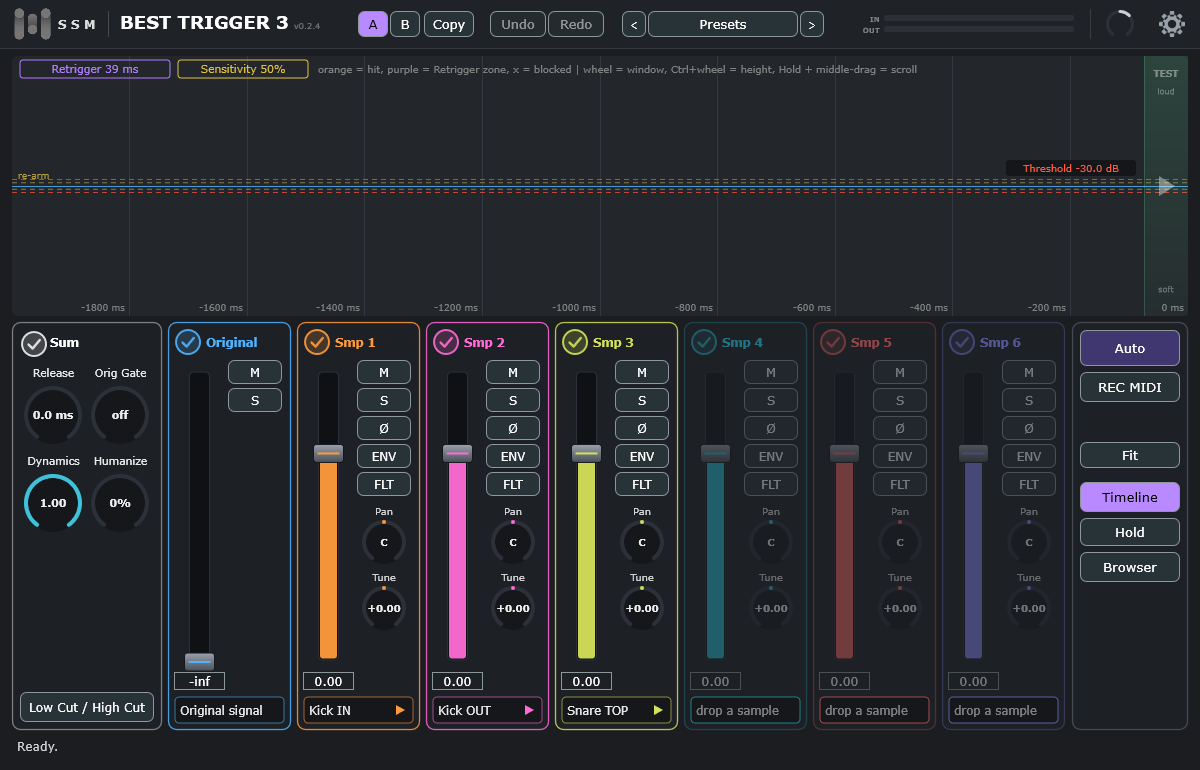
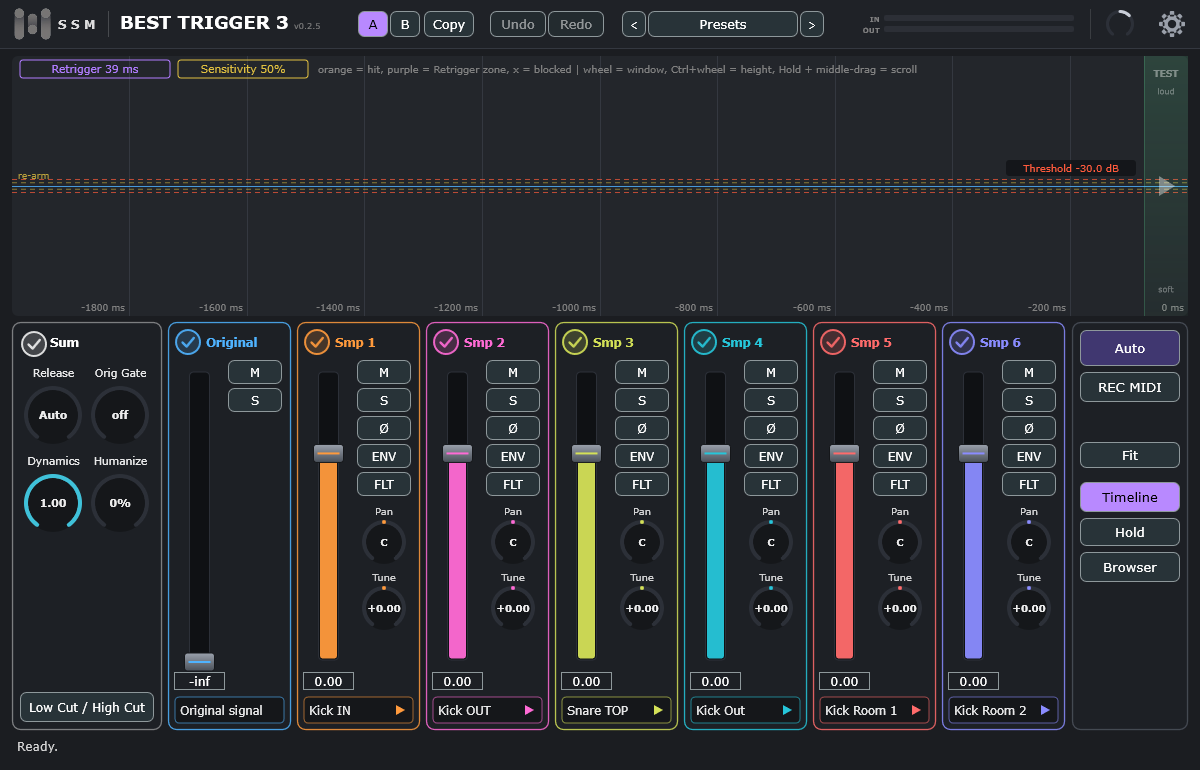
Manuals 0.2.5

diff --git a/docs/manual-ru.html b/docs/manual-ru.html
@@ -40,7 +40,7 @@
 <header class="top">
   <h1>BEST TRIGGER 3</h1>
   <div class="sub">Руководство пользователя</div>
-  <div class="ver">Версия 0.2.4 · VST3 · Windows 10/11 · macOS · <a href="manual-en.html">English version</a></div>
+  <div class="ver">Версия 0.2.5 · VST3 · Windows 10/11 · macOS · <a href="manual-en.html">English version</a></div>
 </header>
 <main>
 
@@ -114,7 +114,7 @@
   <tr><th style="width:170px">Область</th><th>Назначение</th></tr>
   <tr><td><b>Верхняя панель</b></td><td><b>A / B / Copy</b>, <b>Undo / Redo</b> (5 шагов), <b>Presets</b>, индикаторы IN/OUT, общая ручка выхода, меню-шестерёнка (красная точка — вышла новая версия).</td></tr>
   <tr><td><b>Осциллограф</b></td><td>Два вида, переключаются кнопкой справа: <b>Timeline</b> (удары во времени; вид при запуске) и <b>Phase</b> (последний удар). Зелёная полоса <b>TEST</b> справа — тестовый удар: выше щелчок — сильнее удар.</td></tr>
-  <tr><td><b>Панель Sum</b></td><td>Круглая галочка показывает сумму на осциллографе. <b>Release</b>, <b>Orig Gate</b>, <b>Dynamics</b>, <b>Humanize</b>; фильтры детектора <b>Low Cut / High Cut</b>.</td></tr>
+  <tr><td><b>Панель Sum</b></td><td>Круглая галочка показывает сумму показанных графиков. <b>Release</b>, <b>Orig Gate</b>, <b>Dynamics</b>, <b>Humanize</b>; фильтры детектора <b>Low Cut / High Cut</b>.</td></tr>
   <tr><td><b>Каналы</b></td><td><b>Original</b> и <b>Smp 1–6</b>: галочка графика, фейдер, <b>M</b>, <b>S</b>, <b>Ø</b>, <b>ENV</b>, <b>FLT</b>, <b>Pan</b>, <b>Tune</b> и плашка с именем сэмпла.</td></tr>
   <tr><td><b>Правая панель</b></td><td><b>Auto</b>, <b>REC MIDI</b>, <b>Fit</b> (Timeline), <b>Timeline / Phase</b>, <b>Hold</b>, <b>Browser</b> (полная версия).</td></tr>
 </table>
@@ -155,7 +155,7 @@
   <tr><td><b>ENV</b></td><td>Attack, Sustain и Release сэмпла.</td></tr>
   <tr><td><b>FLT</b></td><td>Low Cut и High Cut для этого сэмпла.</td></tr>
   <tr><td><b>Pan, Tune</b></td><td>Панорама L100…R100; высота ±24 полутона.</td></tr>
-  <tr><td><b>Release</b></td><td>Новый удар за это время приглушает предыдущий сэмпл того же канала.</td></tr>
+  <tr><td><b>Release</b></td><td><b>Auto</b> (по умолчанию): новый удар сам приглушает предыдущий сэмпл того же канала, на быстрых партиях быстрее. <b>off</b> оставляет хвосты; можно задать время.</td></tr>
   <tr><td><b>Orig Gate</b></td><td>После удара оригинал слышен это время, затем закрывается. 0 — выключено.</td></tr>
   <tr><td><b>Humanize</b></td><td>Небольшие случайные изменения уровня, высоты и времени на каждом ударе.</td></tr>
 </table>
@@ -248,7 +248,7 @@
 <p>Плагин использует фреймворк JUCE, TweetNaCl и метод из проекта tci2wav (MIT). Тексты лицензий: <a href="https://github.com/BardinGuitars/Best-Trigger-3/blob/main/THIRD_PARTY_NOTICES.md">THIRD_PARTY_NOTICES.md</a>. VST — торговая марка Steinberg Media Technologies GmbH.</p>
 <footer>
   <b>© 2026 SSM-Audio. Все права защищены.</b><br>
-  Best Trigger 3 · версия 0.2.4
+  Best Trigger 3 · версия 0.2.5
 </footer>
 </main>
 </body>

diff --git a/docs/manual-en.html b/docs/manual-en.html
@@ -40,7 +40,7 @@
 <header class="top">
   <h1>BEST TRIGGER 3</h1>
   <div class="sub">User Manual</div>
-  <div class="ver">Version 0.2.4 · VST3 · Windows 10/11 · macOS · <a href="manual-ru.html">Русская версия</a></div>
+  <div class="ver">Version 0.2.5 · VST3 · Windows 10/11 · macOS · <a href="manual-ru.html">Русская версия</a></div>
 </header>
 <main>
 
@@ -114,7 +114,7 @@
   <tr><th style="width:170px">Area</th><th>Purpose</th></tr>
   <tr><td><b>Top panel</b></td><td><b>A / B / Copy</b>, <b>Undo / Redo</b> (5 steps), <b>Presets</b>, IN/OUT meters, master output knob, gear menu (a red dot means a new version).</td></tr>
   <tr><td><b>Scope</b></td><td>Two views, switched by the button on the right: <b>Timeline</b> (hits in time; the starting view) and <b>Phase</b> (the last hit). The green <b>TEST</b> strip on the right fires a test hit: higher click = harder hit.</td></tr>
-  <tr><td><b>Sum panel</b></td><td>The round tick shows the sum on the scope. <b>Release</b>, <b>Orig Gate</b>, <b>Dynamics</b>, <b>Humanize</b>; <b>Low Cut / High Cut</b> filters for the detector.</td></tr>
+  <tr><td><b>Sum panel</b></td><td>The round tick shows the sum of the traces that are shown. <b>Release</b>, <b>Orig Gate</b>, <b>Dynamics</b>, <b>Humanize</b>; <b>Low Cut / High Cut</b> filters for the detector.</td></tr>
   <tr><td><b>Channels</b></td><td><b>Original</b> and <b>Smp 1–6</b>: trace tick, fader, <b>M</b>, <b>S</b>, <b>Ø</b>, <b>ENV</b>, <b>FLT</b>, <b>Pan</b>, <b>Tune</b>, and a plate with the sample name.</td></tr>
   <tr><td><b>Right panel</b></td><td><b>Auto</b>, <b>REC MIDI</b>, <b>Fit</b> (Timeline), <b>Timeline / Phase</b>, <b>Hold</b>, <b>Browser</b> (full version).</td></tr>
 </table>
@@ -155,7 +155,7 @@
   <tr><td><b>ENV</b></td><td>Attack, Sustain and Release of the sample.</td></tr>
   <tr><td><b>FLT</b></td><td>Low Cut and High Cut for this sample.</td></tr>
   <tr><td><b>Pan, Tune</b></td><td>Pan L100…R100; pitch ±24 semitones.</td></tr>
-  <tr><td><b>Release</b></td><td>A new hit fades out the previous sample of the same channel in this time.</td></tr>
+  <tr><td><b>Release</b></td><td><b>Auto</b> (default): a new hit fades out the previous sample of the same channel by itself, faster on fast parts. <b>off</b> keeps the tails; or set a time.</td></tr>
   <tr><td><b>Orig Gate</b></td><td>After a hit the original stays audible for this time, then closes. 0 = off.</td></tr>
   <tr><td><b>Humanize</b></td><td>Small random changes of level, pitch and timing on every hit.</td></tr>
 </table>
@@ -248,7 +248,7 @@
 <p>The plugin uses the JUCE framework, TweetNaCl and a method from the tci2wav project (MIT). Licence texts: <a href="https://github.com/BardinGuitars/Best-Trigger-3/blob/main/THIRD_PARTY_NOTICES.md">THIRD_PARTY_NOTICES.md</a>. VST is a trademark of Steinberg Media Technologies GmbH.</p>
 <footer>
   <b>© 2026 SSM-Audio. All rights reserved.</b><br>
-  Best Trigger 3 · version 0.2.4
+  Best Trigger 3 · version 0.2.5
 </footer>
 </main>
 </body>
